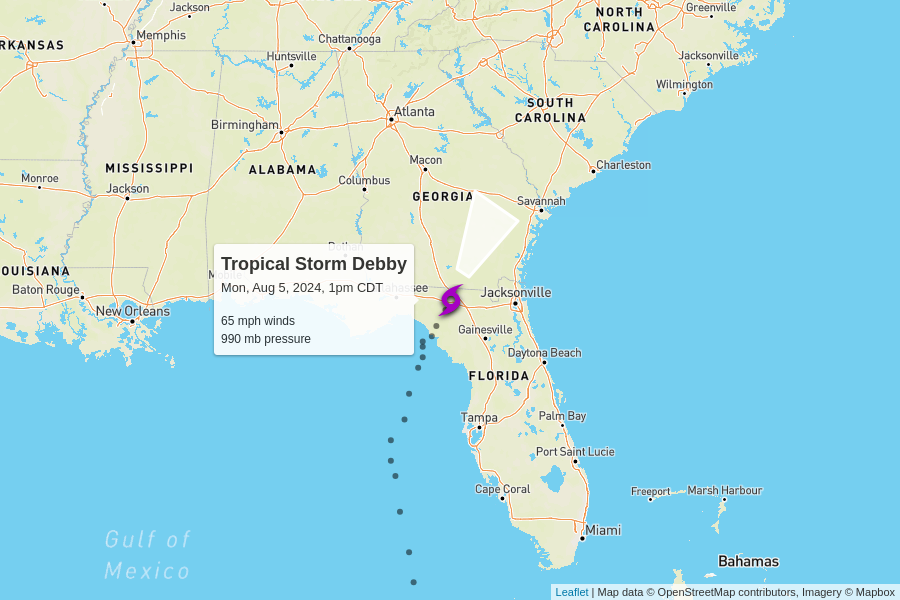
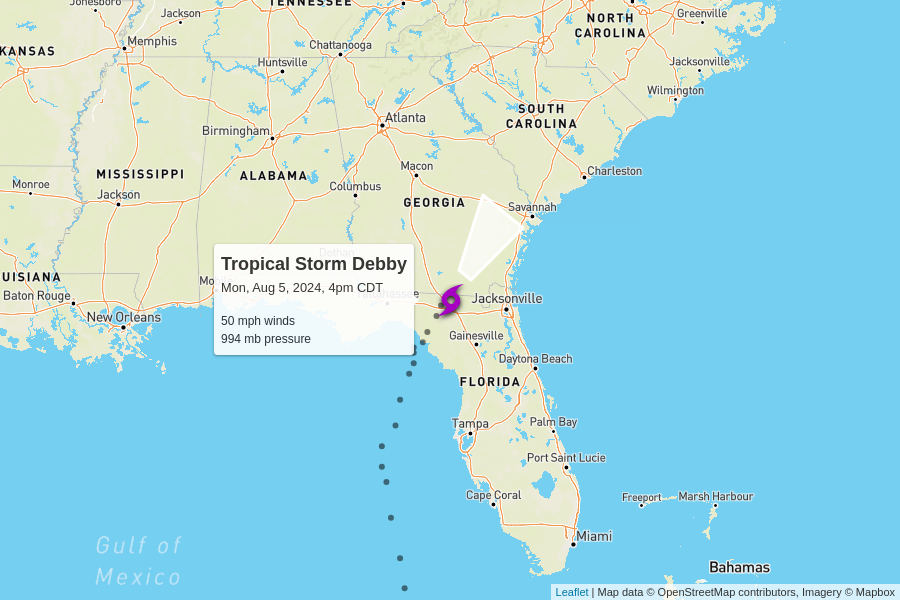
automatic update

diff --git a/docs/index.html b/docs/index.html
@@ -102,7 +102,7 @@
         <td colspan="6" class="storm category-0" >
           <h2>
             Tropical Storm Debby
-            <p class="updated">last updated <span data-time>2024-08-05T18:00:00.000Z</span></p>
+            <p class="updated">last updated <span data-time>2024-08-05T21:00:00.000Z</span></p>
           </h2>
         </td>
       </tr>
@@ -117,12 +117,12 @@
       </tr>
       <tr>
         <td class="spacer"></td>
-        <td>65 mph<br>-5 mph since last update</td>
-        <td>990 mb<br>+7 mb since last update</td>
+        <td>50 mph<br>-15 mph since last update</td>
+        <td>994 mb<br>+4 mb since last update</td>
         <td>
-          7 mph to the north-northeast
+          6 mph to the northeast
           <br/>
-          <span style="display: inline-block; font-size: 1.5em; transform: rotate(30deg);">↑</span>
+          <span style="display: inline-block; font-size: 1.5em; transform: rotate(35deg);">↑</span>
         </td>
         <td><a href="https://raw.githubusercontent.com/mgwalker/atlantic-hurricanes/main/data/csv/AL042024.csv">AL042024.csv</a></td>
         <td><a href="https://www.nhc.noaa.gov/archive/2024/DEBBY.shtml?">NHC advisories</a></td>
